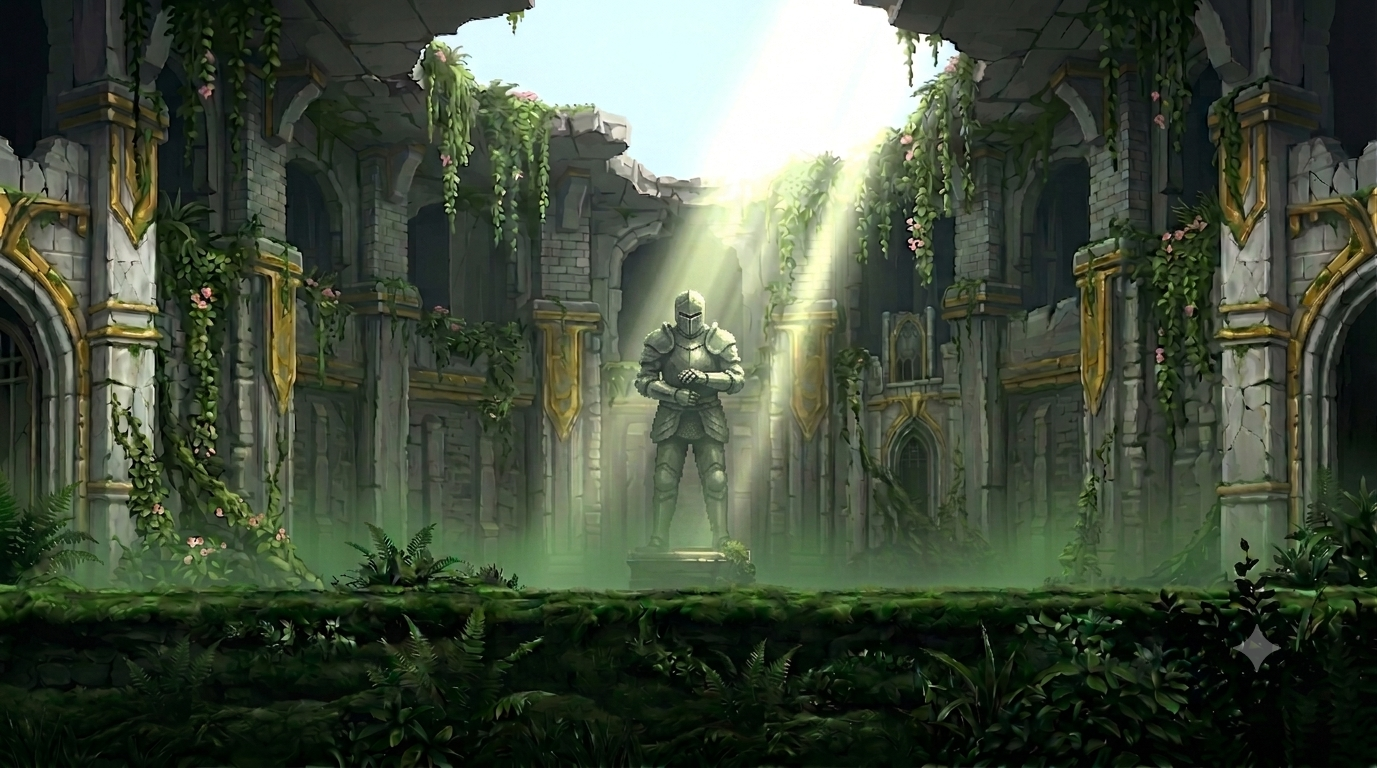
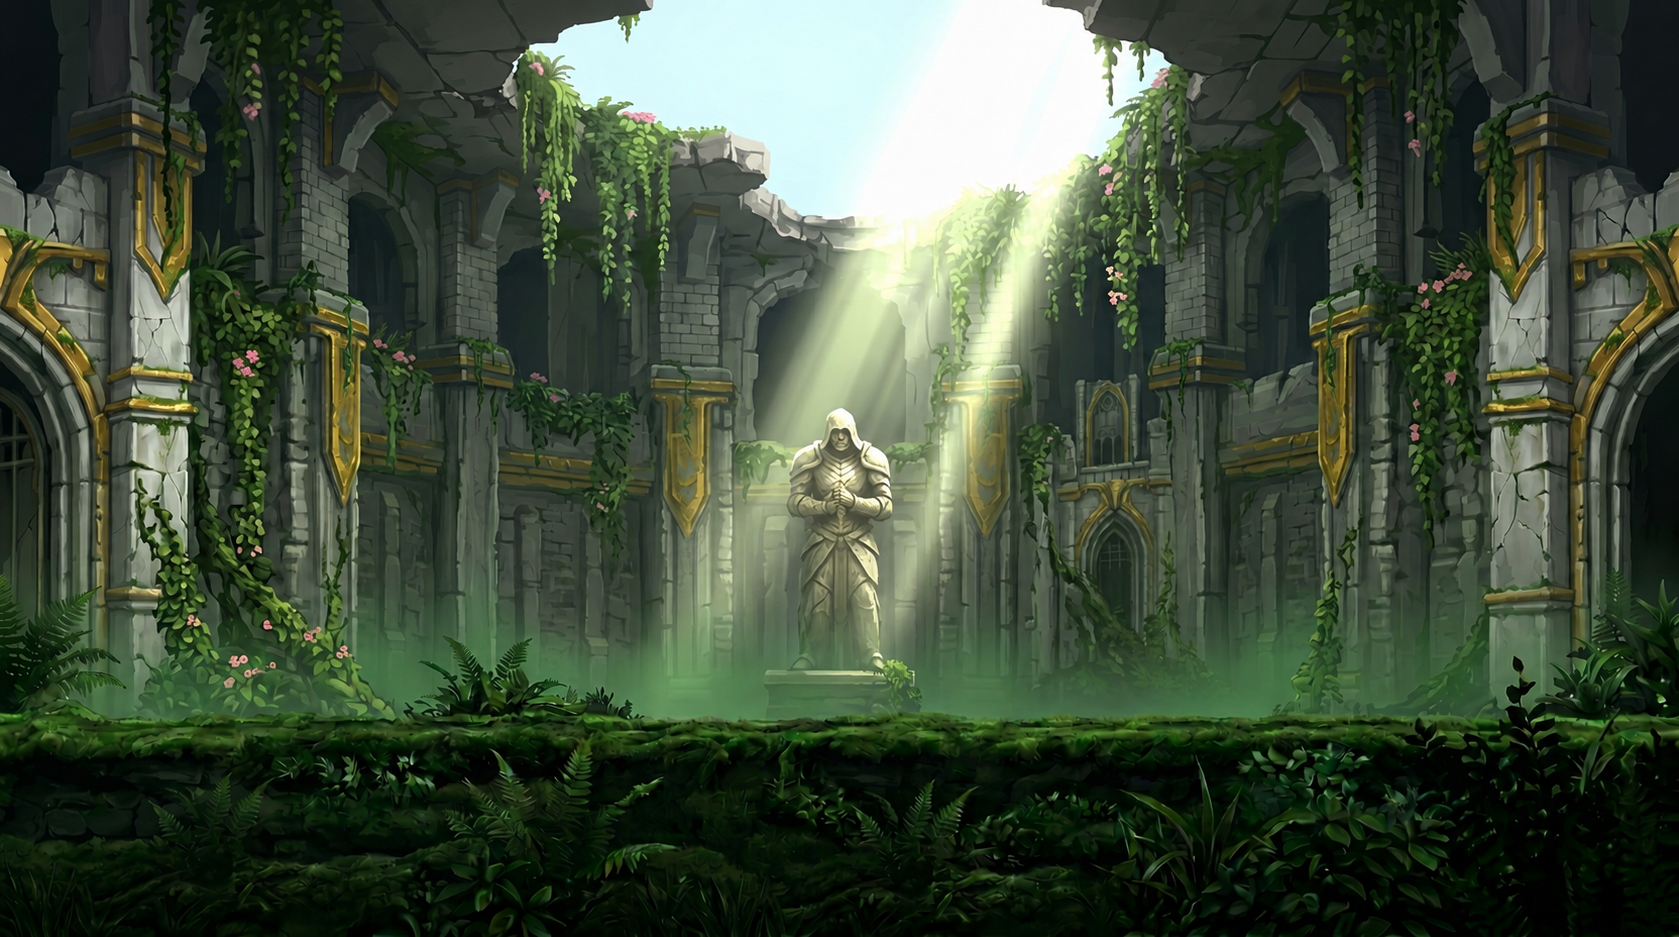
add: implementação dos telas sem marca d'água e tela 5

diff --git a/levels/fase1/tela5.py b/levels/fase1/tela5.py
@@ -1,23 +1,108 @@
+import math
+
+import pygame
+
 import settings
+from classes.coletavel import FragmentoChave
+from classes.enemy import Saqueador
 from core.level import Level
-from classes.coletavel import Pocao, FragmentoChave, Gema
 
-# Tela 5 da Fase 1
-# TODO: substituir FUNDO pelo asset correto em assets/fase1/tela5/
-# TODO: definir LAYOUT_PLATAFORMAS com as plataformas desta tela
+
 class Fase1Tela5(Level):
-
-    FUNDO = "assets/fase1/fase1-bg1.png"  # placeholder — trocar quando o asset estiver pronto
+    FUNDO = "assets/fase1/fase1-bg5.png"
+    IMAGEM_FRAGMENTO = "assets/fase1/fragmento-chave.png.png"
+    DIALOGOS = [
+        "No fundo da sala, um brilho dourado pulsa lentamente.",
+        "Eu sabia que estava aqui. Projetei este esconderijo com as minhas maos.",
+        "Um fragmento da Chave Mestra. O rei a dividiu em tres partes e as espalhei pelo castelo.",
+        "Reuna os tres fragmentos... e o cofre de Aurum se abrira.",
+        "Mas primeiro - alguem esta guardando.",
+    ]
 
     LAYOUT_PLATAFORMAS = [
-        # (x, y, largura, altura[, caminho_imagem])
-        (0, settings.ALTURA_TELA - 152, settings.LARGURA_TELA, 152),  # Chão invisível
+        (0, settings.ALTURA_TELA - 152, settings.LARGURA_TELA, 152),
     ]
 
     def __init__(self, player_state=None):
         super().__init__(player_state)
-        chao = settings.ALTURA_TELA - 152
 
-        self.coletaveis.add(Pocao(300, chao - 32))
-        self.coletaveis.add(FragmentoChave(500, chao - 32))
-        self.coletaveis.add(Gema(700, chao - 32, cor="azul"))
+        self.pedestal_rect = pygame.Rect(
+            settings.LARGURA_TELA // 2 - 45,
+            settings.ALTURA_TELA - 370,
+            90,
+            118,
+        )
+        self.fragmento = FragmentoChave(0, 0)
+        self.fragmento.image = self._carregar_imagem_fragmento()
+        self.fragmento_base_center = (self.pedestal_rect.centerx, self.pedestal_rect.y + 34)
+        self.fragmento_coletado = self.player.fragmentos_chave >= 1
+        self.fonte_prompt = pygame.font.Font(None, 30)
+
+        y_chao = settings.ALTURA_TELA - 152
+        saqueador = Saqueador(840, y_chao - 56, 700, settings.LARGURA_TELA - 90)
+        self.grupo_inimigos.add(saqueador)
+
+    def _carregar_imagem_fragmento(self):
+        imagem = pygame.image.load(self.IMAGEM_FRAGMENTO).convert_alpha()
+        return pygame.transform.smoothscale(imagem, (82, 82))
+
+    def processar_evento(self, evento):
+        if self.dialogo_ativo:
+            super().processar_evento(evento)
+            return
+
+        if (
+            evento.type == pygame.KEYDOWN
+            and evento.key == pygame.K_e
+            and self.pode_coletar_fragmento()
+        ):
+            self.fragmento.coletar(self.player)
+            self.fragmento_coletado = True
+            self.salvar_estado_jogador()
+            return
+
+        super().processar_evento(evento)
+
+    def pode_coletar_fragmento(self):
+        return (
+            not self.fragmento_coletado
+            and len(self.grupo_inimigos) == 0
+            and self.player.rect.colliderect(self.pedestal_rect)
+        )
+
+    def desenhar(self, tela):
+        super().desenhar(tela)
+
+        if not self.fragmento_coletado:
+            self._desenhar_fragmento_animado(tela)
+
+        if self.pode_coletar_fragmento() and not self.dialogo_ativo:
+            prompt = self.fonte_prompt.render("[E] Pegar fragmento", True, settings.WHITE)
+            tela.blit(prompt, (self.pedestal_rect.x - 62, self.pedestal_rect.y - 42))
+
+    def _desenhar_fragmento_animado(self, tela):
+        tempo = pygame.time.get_ticks() / 300
+        pulso = math.sin(tempo)
+        deslocamento_y = int(pulso * 4)
+        alpha = int(80 + ((pulso + 1) / 2) * 110)
+
+        centro_x, centro_y = self.fragmento_base_center
+        centro_y += deslocamento_y
+        self._desenhar_brilho_fragmento(tela, centro_x, centro_y, alpha)
+
+        rect = self.fragmento.image.get_rect(center=(centro_x, centro_y))
+        tela.blit(self.fragmento.image, rect)
+
+    def _desenhar_brilho_fragmento(self, tela, centro_x, centro_y, alpha):
+        brilho = pygame.Surface((96, 96), pygame.SRCALPHA)
+        centro = (48, 48)
+
+        # Circulos concentricos dao profundidade ao brilho.
+        for raio, fator_alpha in ((42, 0.25), (30, 0.45), (18, 0.75)):
+            cor = (255, 210, 70, int(alpha * fator_alpha))
+            pygame.draw.circle(brilho, cor, centro, raio)
+
+        tela.blit(brilho, (centro_x - 48, centro_y - 48))
+
+    def terminou(self):
+        return super().terminou() and self.fragmento_coletado

diff --git a/levels/fase1/tela3.py b/levels/fase1/tela3.py
@@ -5,8 +5,8 @@ from core.level import Level
 
 
 class Fase1Tela3(Level):
-    FUNDO = "assets/fase1/fase1-bg3.png"
-    FUNDO_SEM_ESPADA = "assets/fase1/fase1-bg3-semEspada.png"
+    FUNDO = "assets/fase1/fase1-bg3-comespada.png"
+    FUNDO_SEM_ESPADA = "assets/fase1/fase1-bg3-semespada.png"
     DIALOGOS = [
         "Os corredores ainda cheiram a pedra umida e tempo perdido.",
         "Tudo exatamente como eu deixei. Cada detalhe, cada sombra.",